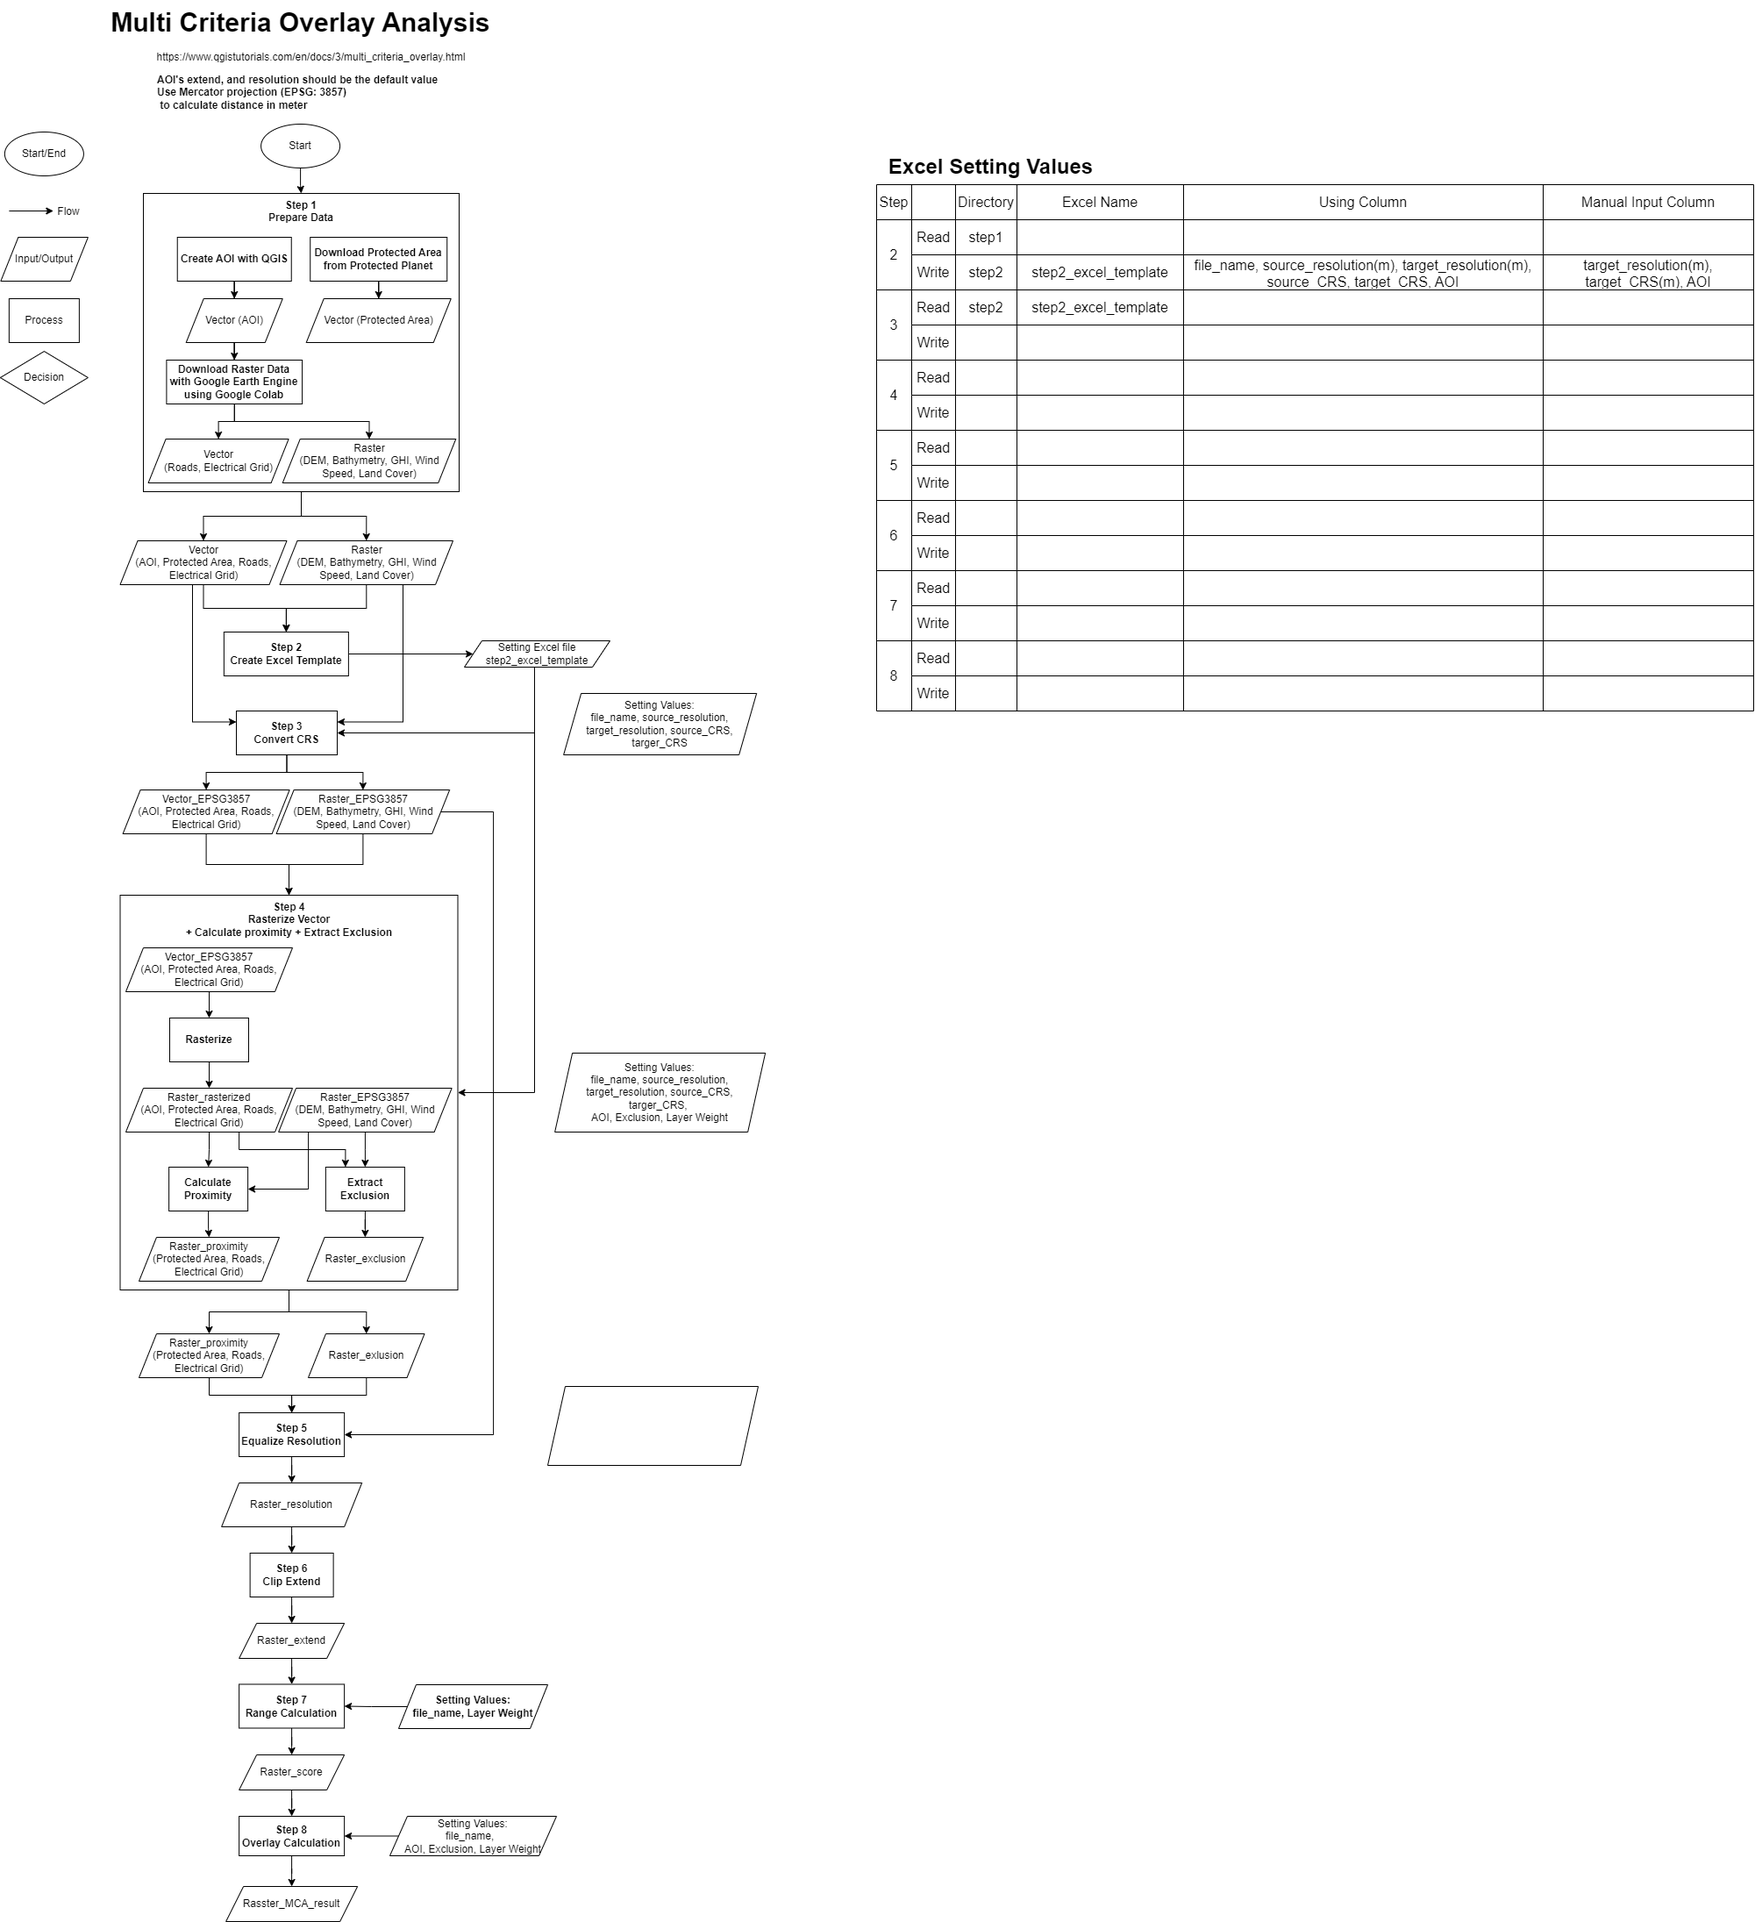
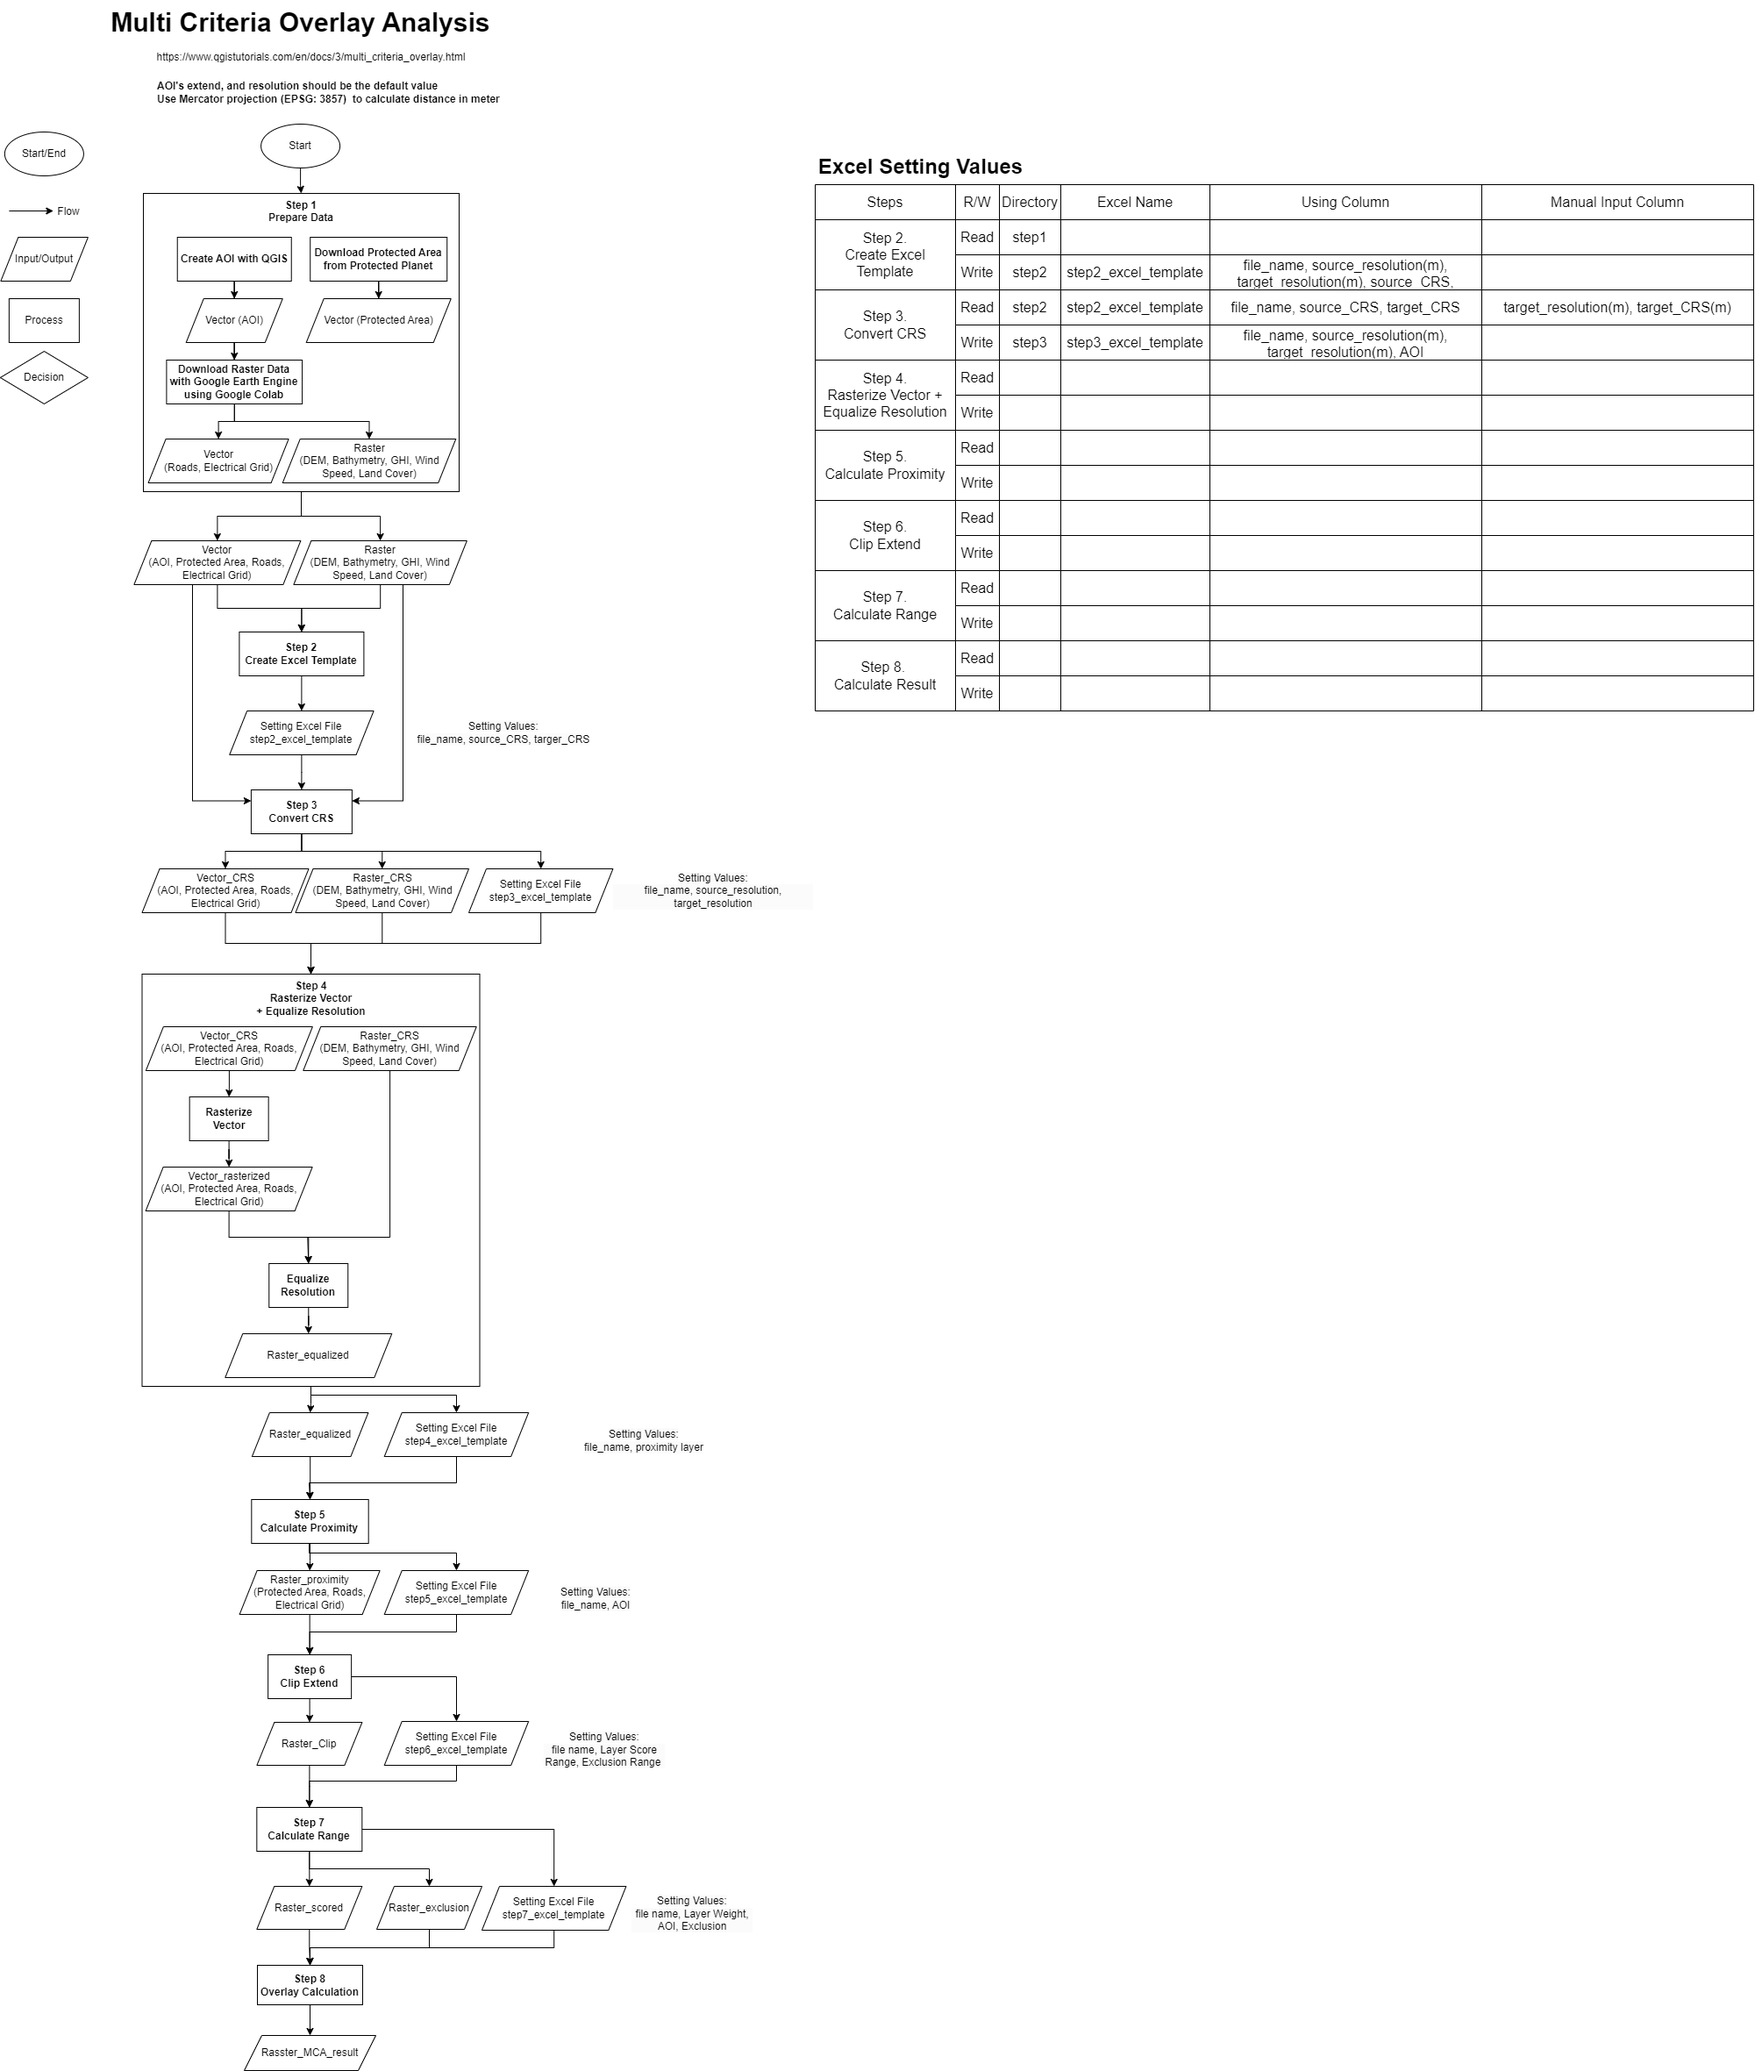
modify step3

diff --git a/src/module/step3_convert_CRS.py b/src/module/step3_convert_CRS.py
@@ -3,12 +3,12 @@ import pandas as pd
 import geopandas as gpd
 import rasterio
 from rasterio.warp import calculate_default_transform, reproject, Resampling
-from pyproj import Transformer
+import shutil
 
-path_data = r'data\\step1\\'
-path_read = r'data\\step2\\'
-path_write = r'data\\step3\\'
-input_excel_path = path_read + r'step2_excel_template.xlsx'
+input_data_path = r'data\\step1\\'
+input_excel_path = r'data\\step2\\'
+output_path = r'data\\step3\\'
+input_excel_path = input_excel_path + r'step2_excel_template.xlsx'
 
 # create panda data frame for each purpose
 df_input_excel = pd.read_excel(input_excel_path)
@@ -17,24 +17,31 @@ df_input_excel = pd.read_excel(input_excel_path)
 shp_geojson_df = df_input_excel[df_input_excel['file_name'].str.lower().str.endswith(('.shp', '.geojson'))]
 
 for idx, row in shp_geojson_df.iterrows():
+    gdf = gpd.read_file(os.path.join(input_data_path, row['file_name']))  # add path
+
+    # convert CRS
     if row['source_CRS'] != row['target_CRS']:
-        gdf = gpd.read_file(os.path.join(path_data, row['file_name']))  # add path
-        
-        # convert CRS to EPSG:3857
         gdf = gdf.to_crs(row['target_CRS'])
-        
-        output_file_name = os.path.splitext(row['file_name'])[0] + '_EPSG3857.shp'  # change file name
-        output_file_path = os.path.join(path_write, output_file_name)  # add path
+        output_file_name = os.path.splitext(row['file_name'])[0] + '_CRS.shp'  # change file name
+        output_file_path = os.path.join(output_path, output_file_name)  # add path
         gdf.to_file(output_file_path, driver='ESRI Shapefile')  # save as Shapefile
+
+    # only rename and save as shape file
+    else:
+        output_file_name = os.path.splitext(row['file_name'])[0] + '_CRS.shp'  # change file name
+        output_file_path = os.path.join(output_path, output_file_name)  # add path
+        gdf.to_file(output_file_path, driver='ESRI Shapefile')  # save as Shapefile
+
 
 # process '.tif' file
 tif_df = df_input_excel[df_input_excel['file_name'].str.lower().str.endswith('.tif')]
 
 for idx, row in tif_df.iterrows():
+    input_file_path = os.path.join(input_data_path, row['file_name'])  # add path
+    output_file_name = os.path.splitext(row['file_name'])[0] + '_CRS.tif'  # change file name
+    output_file_path = os.path.join(output_path, output_file_name)  # add path
+    
     if row['source_CRS'] != row['target_CRS']:
-        input_file_path = os.path.join(path_data, row['file_name'])  # add path
-        output_file_name = os.path.splitext(row['file_name'])[0] + '_EPSG3857.tif'  # change file name
-        output_file_path = os.path.join(path_write, output_file_name)  # add path
         with rasterio.open(input_file_path) as src:
             transform, width, height = calculate_default_transform(src.crs, row['target_CRS'], src.width, src.height, *src.bounds)
             kwargs = src.meta.copy()
@@ -50,3 +57,5 @@ for idx, row in tif_df.iterrows():
                         dst_transform=transform,
                         dst_crs=row['target_CRS'],
                         resampling=Resampling.nearest)
+    else:
+        shutil.copy(input_file_path, output_file_path)
